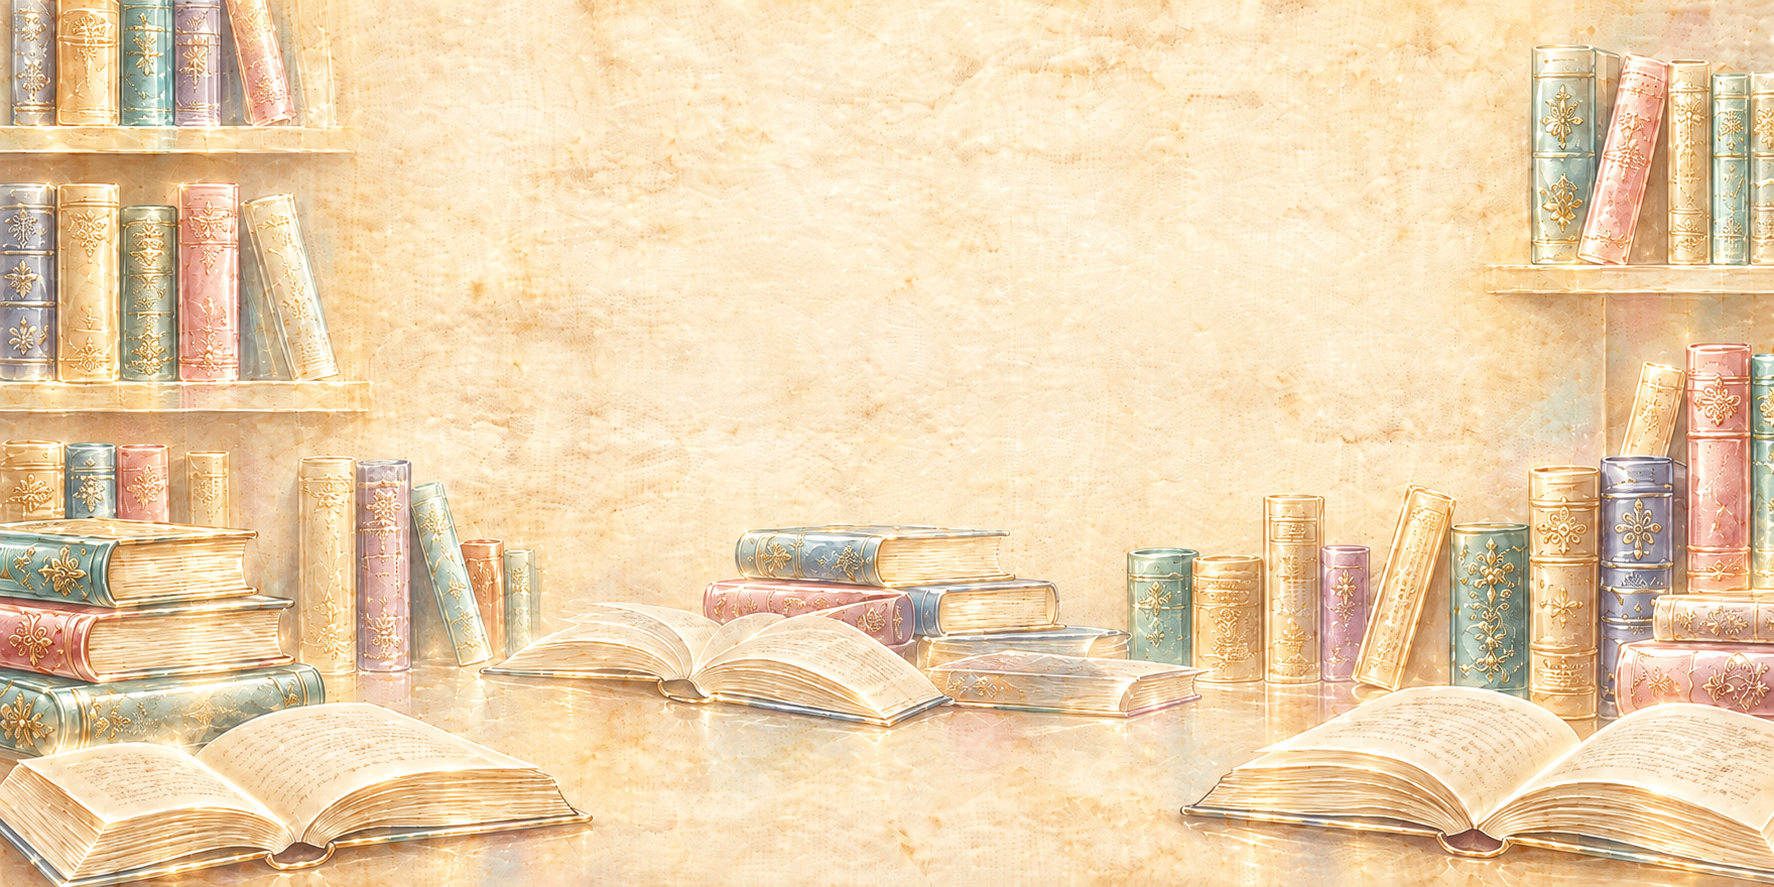
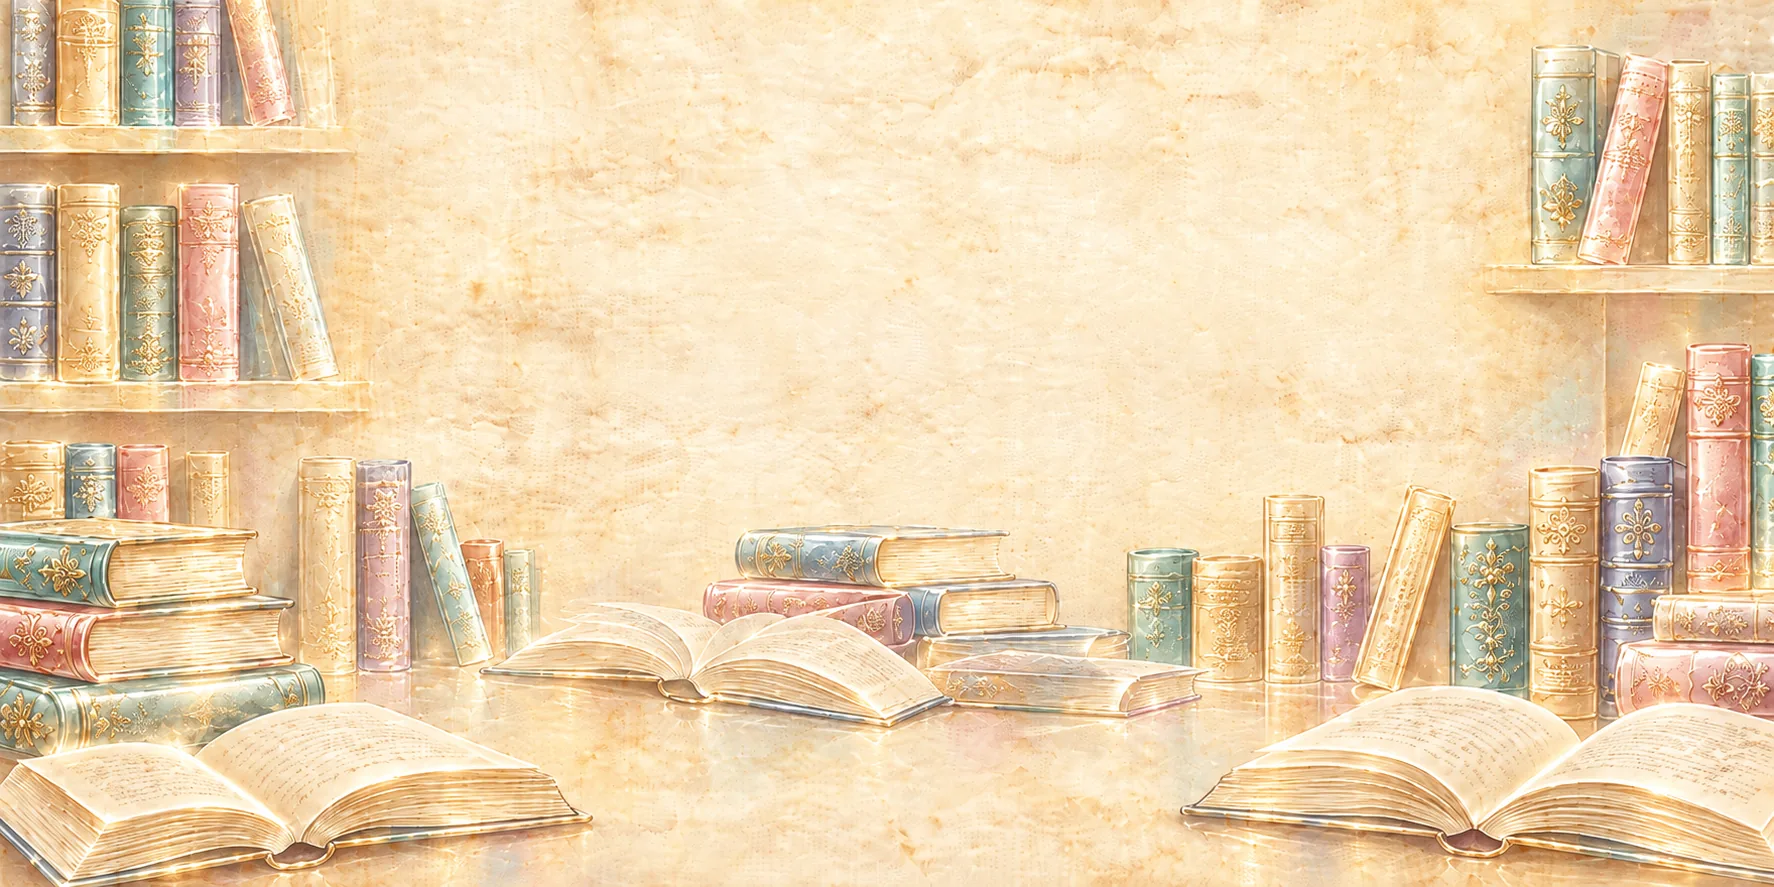
fix(web-publica): favoritos, cuenta formal, asistente compacto y web más liviana
- Favoritos: el corazón se marca al instante; sin sesión lleva a ingresar.
- Ficha: sin línea dorada bajo la categoría.
- Imágenes de fondo recomprimidas (5,2 MB -> 0,43 MB) y login en WebP.
- Anuncios del inicio con srcset: el celular baja la versión de 800 px.
- Asistente en celular como ventana flotante pequeña.
- Ingreso sin panel azul y perfil con la letra de la web.

Changed region(s): [[0.093, 0.6088, 0.124, 0.6697], [0.9301, 0.9436, 0.9611, 0.9741], [0.031, 0.0304, 0.062, 0.0609]]

diff --git a/frontend/src/public-site/formal.css b/frontend/src/public-site/formal.css
@@ -927,3 +927,110 @@
     .sitio .catalogo .libro__escenario { padding: 12px 0 10px; }
     .sitio .catalogo .libro .libro__tapa { width: 82%; }
 }
+
+/* Asistente en celulares: botón y hoja más compactos para no tapar la
+   página; en pantallas muy pequeñas todo se reduce un paso más. */
+@media (max-width: 480px) {
+    .sitio .asistente-tienda .asistente-abrir,
+    .sitio .asistente-tienda .asistente-abrir__icono { width: 50px; height: 50px; }
+    .sitio .asistente-tienda .asistente-abrir__icono::before { width: 11px; height: 11px; right: 2px; bottom: 3px; }
+    .sitio .asistente-tienda .asistente-panel { max-height: min(76dvh, calc(100dvh - 140px - env(safe-area-inset-bottom))); }
+    .sitio .asistente-tienda .asistente-cabecera { padding: 10px 8px 10px 12px; gap: 10px; }
+    .sitio .asistente-tienda .asistente-avatar { width: 38px; height: 38px; }
+    .sitio .asistente-tienda .asistente-conversacion { padding: 12px 12px; }
+    .sitio .asistente-tienda .asistente-mensaje { max-width: 94%; font-size: 0.8125rem; }
+    /* Sugerencias en una sola fila deslizable. */
+    .sitio .asistente-tienda .asistente-sugerencias { flex-wrap: nowrap; overflow-x: auto; scrollbar-width: none; padding: 8px 12px 0; }
+    .sitio .asistente-tienda .asistente-sugerencias::-webkit-scrollbar { display: none; }
+    .sitio .asistente-tienda .asistente-sugerencias button { flex: none; white-space: nowrap; }
+    .sitio .asistente-tienda .asistente-formulario { padding: 8px 12px 0; }
+}
+@media (max-width: 360px) {
+    .sitio .asistente-tienda { right: 10px; }
+    .sitio .asistente-tienda .asistente-abrir,
+    .sitio .asistente-tienda .asistente-abrir__icono { width: 44px; height: 44px; }
+    .sitio .asistente-tienda .asistente-cabecera h2 { font-size: 0.875rem; }
+    .sitio .asistente-tienda .asistente-cabecera p { display: none; }
+    .sitio .asistente-tienda .asistente-avatar { width: 34px; height: 34px; }
+    .sitio .asistente-tienda .asistente-formulario > p { display: none; }
+    .sitio .asistente-tienda .asistente-sugerencias button { min-height: 30px; font-size: 0.75rem; }
+}
+@media (max-width: 480px) and (max-height: 640px) {
+    .sitio .asistente-tienda .asistente-panel { max-height: calc(100dvh - 128px - env(safe-area-inset-bottom)); }
+}
+
+/* Asistente en celular: ventana flotante pequeña (no a todo el ancho), así
+   queda espacio alrededor para tocar fuera y cerrarla. */
+@media (max-width: 480px) {
+    .sitio .asistente-tienda .asistente-panel {
+        position: fixed; inset: auto 12px calc(76px + env(safe-area-inset-bottom)) auto;
+        width: min(340px, calc(100vw - 24px)); max-height: min(520px, 64dvh);
+        border-radius: 16px; animation-name: asistente-hoja;
+    }
+}
+@media (max-width: 360px) {
+    .sitio .asistente-tienda .asistente-panel { inset: auto 8px calc(72px + env(safe-area-inset-bottom)) auto; width: calc(100vw - 16px); max-height: 70dvh; }
+}
+
+/* ============================================================
+   MI CUENTA · versión formal
+   Ingreso: una sola tarjeta blanca, sin panel azul. Perfil: misma letra
+   que el resto de la web, sin brillos ni degradados, ordenado en bloques.
+   ============================================================ */
+.sitio .cuenta-cliente {
+    display: block; max-width: 440px; padding: clamp(24px, 5vw, 36px);
+    border-radius: 16px; border: 1px solid var(--linea); background: #fff; box-shadow: 0 1px 2px rgba(17, 24, 32, 0.04);
+}
+.sitio .cuenta-cliente::before {
+    content: ''; display: block; width: 44px; height: 50px; margin: 0 0 18px; padding: 0; grid-row: auto;
+    background: url('./assets/logo-f-verde-96.webp') center / contain no-repeat;
+}
+.sitio .cuenta-cliente h1 { margin: 0; font-family: var(--f-titulo); font-size: 1.5rem; font-weight: 600; color: var(--tinta); }
+.sitio .cuenta-cliente .compra-formulario input { background: #fff; border-color: #d4d8dd; }
+.sitio .cuenta-cliente .compra-formulario input:focus { border-color: var(--tinta); box-shadow: 0 0 0 3px rgba(17, 24, 32, 0.08); }
+.sitio .cuenta-cliente .compra-formulario .boton { background: var(--tinta); border-color: var(--tinta); }
+.sitio .cuenta-cliente .compra-formulario .boton:hover { background: #2b3440; border-color: #2b3440; }
+.sitio .cuenta-cliente .compra-acciones .enlace-texto { color: var(--tinta); }
+@media (max-width: 760px) {
+    .sitio .cuenta-cliente { padding: 24px 20px; }
+    .sitio .cuenta-cliente::before { height: 44px; margin: 0 0 14px; background: url('./assets/logo-f-verde-96.webp') left center / contain no-repeat; }
+}
+
+.sitio .perfil { max-width: 1040px; }
+.sitio .perfil h1 { font-family: var(--f-titulo); font-size: clamp(1.5rem, 1.2rem + 1vw, 2rem); font-weight: 600; color: var(--tinta); }
+.sitio .perfil__tarjeta, .sitio .perfil__datos, .sitio .perfil__accesos { border: 1px solid var(--linea); border-radius: 14px; background: #fff; box-shadow: none; }
+.sitio .perfil__tarjeta { background: #fff; padding: 22px 24px; }
+.sitio .perfil__tarjeta::after { content: none; }
+.sitio .perfil__avatar { background: #2f3a46; font-family: var(--f-texto); font-weight: 600; }
+.sitio .compra-pagina .perfil__nombre,
+.sitio .perfil__datos h2, .sitio .perfil__accesos h2 { font-family: var(--f-titulo); color: var(--tinta); }
+.sitio .compra-pagina .perfil__nombre { font-size: 1.25rem; }
+.sitio .perfil__datos h2, .sitio .perfil__accesos h2 { font-size: 1rem; padding-bottom: 12px; margin-bottom: 4px; border-bottom: 1px solid var(--linea); }
+.sitio .compra-pagina .perfil__desde { color: var(--texto-2); }
+.sitio .perfil__salir { border-color: var(--linea); color: var(--tinta); }
+.sitio .perfil__salir:hover { background: var(--fondo-alt); border-color: #c9ced4; }
+.sitio .perfil__datos dl > div { border-top-color: var(--linea); }
+.sitio .perfil__datos dl > div:first-child, .sitio .perfil__datos dl > div:nth-child(2) { border-top: 0; }
+.sitio .perfil__datos dt { color: var(--texto-2); letter-spacing: 0.03em; }
+.sitio .perfil__datos dd { color: var(--tinta); }
+.sitio .perfil__estado { background: var(--fondo-alt); color: var(--texto-2); }
+.sitio .perfil__acceso + .perfil__acceso { border-top-color: var(--linea); }
+.sitio .perfil__acceso:hover { background: var(--fondo-alt); }
+.sitio .perfil__acceso-icono { background: var(--fondo-alt); color: var(--tinta); border-radius: 10px; }
+.sitio .perfil__acceso strong { color: var(--tinta); }
+.sitio .perfil__acceso > svg { color: #a7aeb6; }
+.sitio .perfil__acceso:hover > svg { color: var(--tinta); }
+@media (max-width: 560px) {
+    .sitio .perfil__tarjeta { grid-template-columns: auto minmax(0, 1fr); gap: 14px; padding: 18px; }
+    .sitio .perfil__avatar { width: 56px; height: 56px; font-size: 1.125rem; }
+    .sitio .perfil__salir { grid-column: 1 / -1; justify-self: stretch; justify-content: center; }
+    .sitio .perfil__datos, .sitio .perfil__accesos { padding: 16px; }
+    .sitio .perfil__datos dl > div:nth-child(2) { border-top: 1px solid var(--linea); }
+    .sitio .perfil__acceso { grid-template-columns: 38px minmax(0, 1fr) auto; gap: 12px; padding: 12px 4px; }
+    .sitio .perfil__acceso-icono { width: 38px; height: 38px; }
+}
+.sitio .perfil__avatar { box-shadow: 0 0 0 3px #fff, 0 0 0 4px var(--linea); }
+/* Con la ventana abierta en celular, el botón redondo se oculta para no asomar. */
+@media (max-width: 480px) {
+    .sitio .asistente-tienda .asistente-abrir[aria-expanded="true"] { opacity: 0; pointer-events: none; }
+}

diff --git a/frontend/src/public-site/tienda/AccionesLibro.jsx b/frontend/src/public-site/tienda/AccionesLibro.jsx
@@ -1,5 +1,5 @@
 import { useEffect, useState } from 'react';
-import { Link } from 'react-router-dom';
+import { Link, useNavigate } from 'react-router-dom';
 import { FaHeart, FaRegHeart, FaShareNodes, FaLink, FaWhatsapp, FaFacebook } from 'react-icons/fa6';
 import { clienteApi } from './clienteApi';
 import { useTienda } from './TiendaContext';
@@ -18,21 +18,29 @@ export function FavoritoLibro({ libro }) {
             .catch(e=>{if(activo)setConsulta({cargando:false,favorito:false,error:e.message});});
         return()=>{activo=false;};
     },[libro.id,idUsuario,revisando,errorSesion,generacion,version,sesion]);
+    const navegar = useNavigate();
+    // El corazón cambia al instante; si el servidor falla vuelve a su estado
+    // anterior y se explica el motivo.
     async function cambiar() {
-        if (!usuario) {setMensaje('Inicia sesión para guardar este libro en tus favoritos.');return;}
-        if(guardando || consulta.cargando || revisando || errorSesion || consulta.error)return;
+        if (!usuario) {navegar(`/cuenta?continuar=${encodeURIComponent(`/libro/${libro.id}`)}`);return;}
+        if(guardando || revisando || errorSesion)return;
+        const antes=consulta.favorito;
         setGuardando(true);setMensaje('');
+        setConsulta({cargando:false,favorito:!antes,error:''});
         try {
-            const j=consulta.favorito ? await clienteApi.quitarFavorito(libro.id,sesion) : await clienteApi.agregarFavorito(libro.id,sesion);
-            setConsulta({cargando:false,favorito:j.data.es_favorito===true,error:''});
+            const j=antes ? await clienteApi.quitarFavorito(libro.id,sesion) : await clienteApi.agregarFavorito(libro.id,sesion);
+            setConsulta({cargando:false,favorito:j.data?.es_favorito ?? !antes,error:''});
             setMensaje(j.mensaje);
-        } catch(e) {setMensaje(e.message);} finally {setGuardando(false);}
+        } catch(e) {
+            setConsulta({cargando:false,favorito:antes,error:''});
+            setMensaje(e.message || 'No se pudo actualizar tus favoritos. Inténtalo de nuevo.');
+        } finally {setGuardando(false);}
     }
     return <div className="ficha-favorito">
         <button type="button" className={`ficha-utilidad${consulta.favorito?' ficha-utilidad--activa':''}`} aria-pressed={consulta.favorito}
-            disabled={guardando || (Boolean(usuario) && (consulta.cargando || revisando || Boolean(errorSesion) || Boolean(consulta.error)))} onClick={cambiar}>
+            disabled={guardando || (Boolean(usuario) && (revisando || Boolean(errorSesion)))} onClick={cambiar}>
             {consulta.favorito?<FaHeart aria-hidden="true"/>:<FaRegHeart aria-hidden="true"/>}
-            {guardando?'Guardando…':consulta.favorito?'En favoritos':'Agregar a favoritos'}
+            {consulta.favorito?'En favoritos':'Agregar a favoritos'}
         </button>
         {consulta.error && usuario && <p role="alert">{consulta.error} <button type="button" className="enlace-texto" onClick={()=>setVersion(v=>v+1)}>Reintentar favoritos</button></p>}
         {mensaje && <p role="status" className="ficha-mensaje">{mensaje}

diff --git a/frontend/src/public-site/sections/Hero.jsx b/frontend/src/public-site/sections/Hero.jsx
@@ -5,6 +5,15 @@ import useCarrusel from '../hooks/useCarrusel';
 import { urlPortada } from '../lib/formato';
 import './carrusel-inicio.css';
 
+// Anuncios al ancho real de la pantalla: un celular baja la versión de 800 px
+// en lugar de la de 1800 px.
+const ANCHOS_ANUNCIO=[800,1200,1800];
+const fuentesAnuncio=url=>ANCHOS_ANUNCIO.map(a=>`${urlPortada(url,a)} ${a}w`).join(', ');
+const anchoAnuncio=()=>{
+    const necesario=(typeof window==='undefined'?1800:window.innerWidth*(window.devicePixelRatio||1));
+    return ANCHOS_ANUNCIO.find(a=>a>=necesario)||1800;
+};
+
 export default function Hero(){
     const {imagenes:data,cargando,error,reintentar}=useCarrusel();
     const [indice,setIndice]=useState(0),[foco,setFoco]=useState(false);
@@ -26,7 +35,7 @@ export default function Hero(){
     },[imagenes.length,foco,oculto,cargando,indice]);
     useEffect(()=>{
         if(imagenes.length<2)return;
-        const proxima=new Image();proxima.src=urlPortada(imagenes[(actual+1)%imagenes.length].imagen_url,1800);
+        const proxima=new Image();proxima.src=urlPortada(imagenes[(actual+1)%imagenes.length].imagen_url,anchoAnuncio());
     },[imagenes,actual]);
     function intentar(){setFallidas([]);setIndice(0);reintentar();}
     const noImagen=!cargando && !error && !imagenes.length;
@@ -41,10 +50,10 @@ export default function Hero(){
                 :noImagen?<div className="anuncios-inicio__vacio"><p>{data.length?'No se pudo mostrar la imagen del anuncio.':'Sin imágenes publicadas todavía.'}</p>
                     <div>{data.length>0 && <button type="button" onClick={intentar}>Reintentar anuncios</button>}<Link to="/catalogo">Ver catálogo</Link></div></div>
                 :<>{imagen.id_libro?<Link to={`/libro/${Number(imagen.id_libro)}`} aria-label={`Ver libro: ${imagen.titulo}`}>
-                    <img key={imagen.id_imagen} src={urlPortada(imagen.imagen_url,1800)} alt={imagen.titulo || 'Anuncio de la librería'} width="1600" height="600" fetchPriority="high"
+                    <img key={imagen.id_imagen} src={urlPortada(imagen.imagen_url,1800)} srcSet={fuentesAnuncio(imagen.imagen_url)} sizes="100vw" alt={imagen.titulo || 'Anuncio de la librería'} width="1600" height="600" fetchPriority="high"
                         onError={()=>setFallidas(v=>[...v,Number(imagen.id_imagen)])}/>
                     <span className="anuncios-inicio__ver" aria-hidden="true">Ver ahora <FaArrowRight/></span>
-                </Link>:<img key={imagen.id_imagen} src={urlPortada(imagen.imagen_url,1800)} alt={imagen.titulo || 'Anuncio de la librería'} width="1600" height="600" fetchPriority="high"
+                </Link>:<img key={imagen.id_imagen} src={urlPortada(imagen.imagen_url,1800)} srcSet={fuentesAnuncio(imagen.imagen_url)} sizes="100vw" alt={imagen.titulo || 'Anuncio de la librería'} width="1600" height="600" fetchPriority="high"
                     onError={()=>setFallidas(v=>[...v,Number(imagen.id_imagen)])}/>}
                 </>}
         </div>

diff --git a/frontend/src/public-site/tienda/ficha-libro.css b/frontend/src/public-site/tienda/ficha-libro.css
@@ -7,7 +7,8 @@
 .sitio .ficha-portada-principal:hover img { transform: translateY(-2px); }
 .sitio .ficha-informacion { min-width: 0; }
 .sitio .ficha-informacion h1 { font-family: var(--f-titulo); font-size: clamp(24px, 2.2vw, 32px); line-height: 1.22; margin-block: 12px 14px; overflow-wrap: anywhere; }
-.sitio .ficha-categoria { display: inline-flex; font-size: 13px; padding-bottom: 4px; border-bottom: 1px solid var(--dorado-oscuro); color: var(--texto-2); }
+.sitio .ficha-categoria { display: inline-flex; font-size: 13px; color: var(--texto-2); }
+.sitio .ficha-categoria:hover { text-decoration: underline; text-underline-offset: 4px; }
 .sitio .ficha-libro .ficha-autor { font-size: 16px; margin-block: 12px; }
 .sitio .ficha-autor a { font-weight: 600; text-decoration: underline; text-underline-offset: 4px; color: var(--marino-900); }
 .sitio .ficha-libro .ficha-isbn { color: var(--texto-2); font-size: 13px; margin-bottom: 24px; }

diff --git a/frontend/test-browser/ficha-libro.spec.js b/frontend/test-browser/ficha-libro.spec.js
@@ -100,7 +100,7 @@ test('favoritos: agregar, persistir al recargar y quitar con JWT de cliente y si
 test('favorito sin sesión conserva el libro y regresa después de iniciar sesión',async({page})=>{
     await preparar(page);await page.goto('/libro/1');
     await page.getByRole('button',{name:'Agregar a favoritos',exact:true}).click();
-    await expect(page).toHaveURL(/\/libro\/1$/);await page.getByRole('link',{name:'Iniciar sesión',exact:true}).click();
+    await expect(page).toHaveURL(/\/cuenta\?continuar=%2Flibro%2F1$/);
     await page.getByLabel('Correo electrónico',{exact:true}).fill(cliente.email);
     await page.getByLabel('Contraseña',{exact:true}).fill('Prueba-12345');
     await page.getByRole('button',{name:'Entrar',exact:true}).click();await expect(page).toHaveURL(/\/libro\/1$/);

diff --git a/frontend/src/features/auth/LoginPage.jsx b/frontend/src/features/auth/LoginPage.jsx
@@ -21,7 +21,7 @@ import { CargaCorreo, ExitoAnimado } from '../../components/ui/Celebracion';
 import { prepararSonido, sonarPagoAprobado } from '../../lib/utils/sonido';
 import { esPersonalInterno, inicioPorRol } from '../../lib/roles';
 
-import fondoLogin from '../../assets/fondo-login.png';
+import fondoLogin from '../../assets/fondo-login.webp';
 import logoClaro from '../../public-site/assets/logo-f-blanco-96.webp';
 
 const MENSAJE_FUERA_DE_PANEL = 'Este panel es solo para administradores';

diff --git a/frontend/src/features/auth/VerificarEmailPage.jsx b/frontend/src/features/auth/VerificarEmailPage.jsx
@@ -9,7 +9,7 @@ import { reenviarCodigo, verificarEmail } from './authService';
 import { Input } from '../../components/ui/Form';
 import { Alert } from '../../components/ui/Alert';
 
-import fondoLogin from '../../assets/fondo-login.png';
+import fondoLogin from '../../assets/fondo-login.webp';
 import logoLibreria from '../../assets/logo-principal-oscuro.png';
 
 const SEGUNDOS_REINTENTO = 60;
